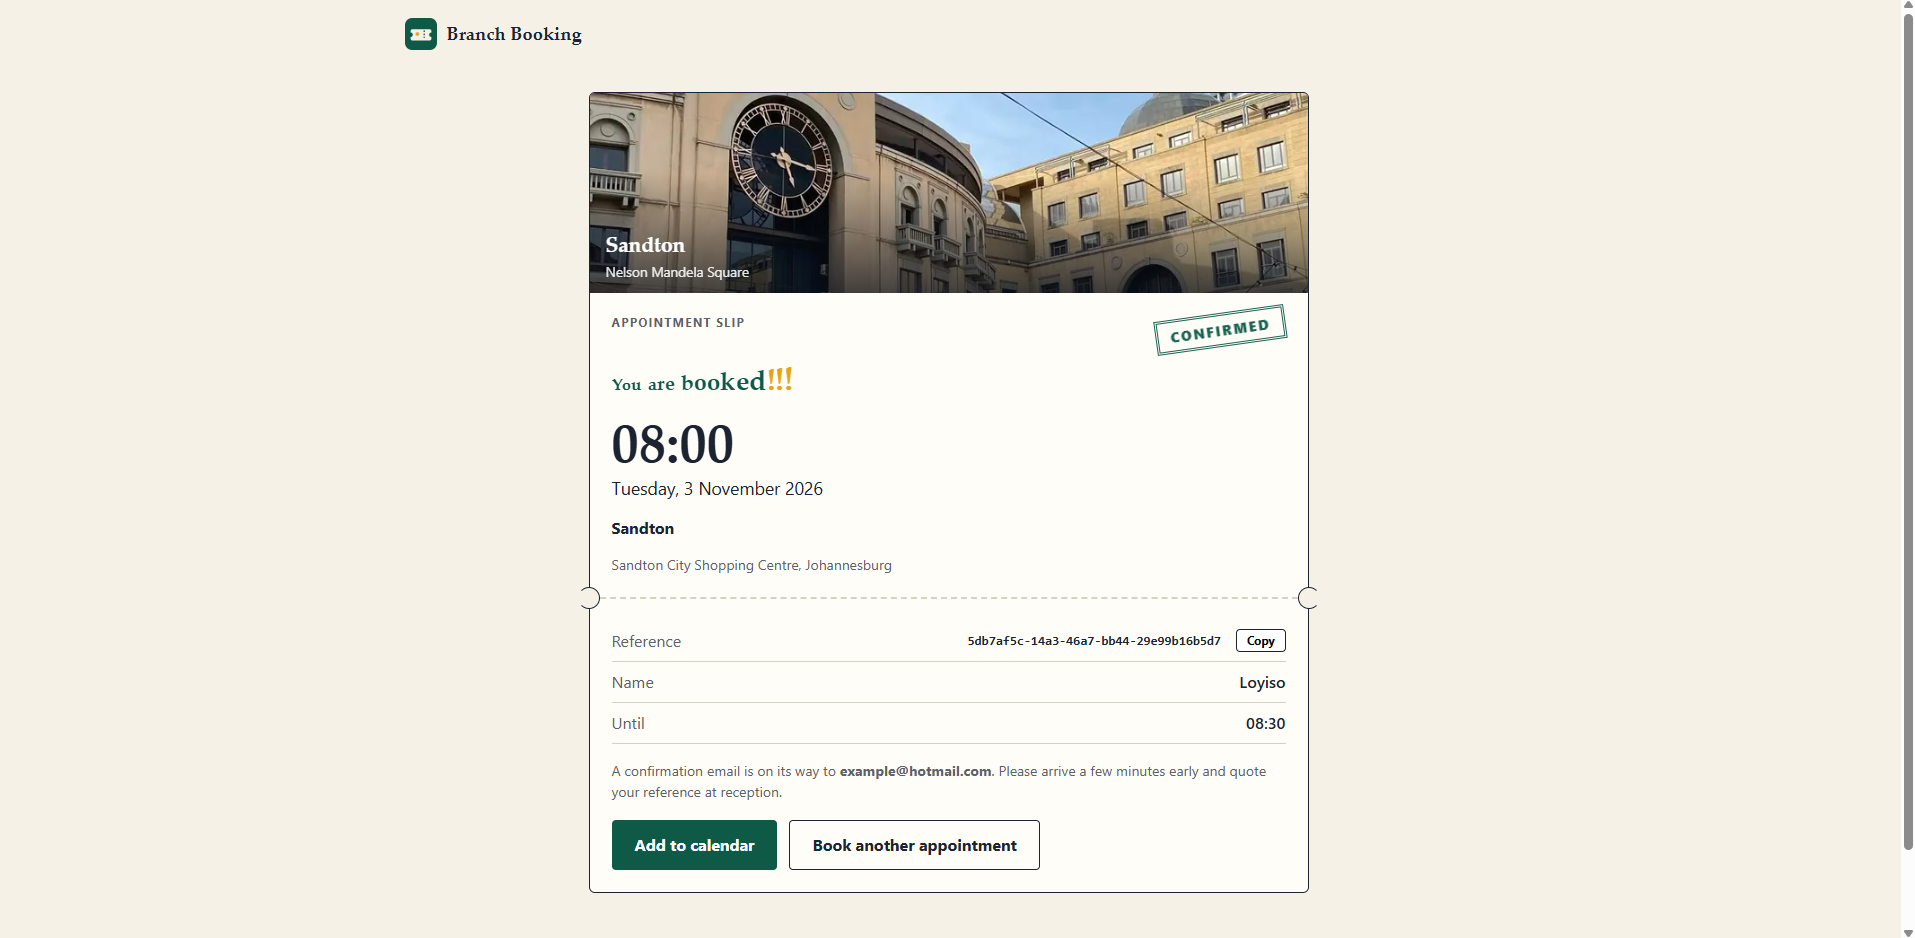
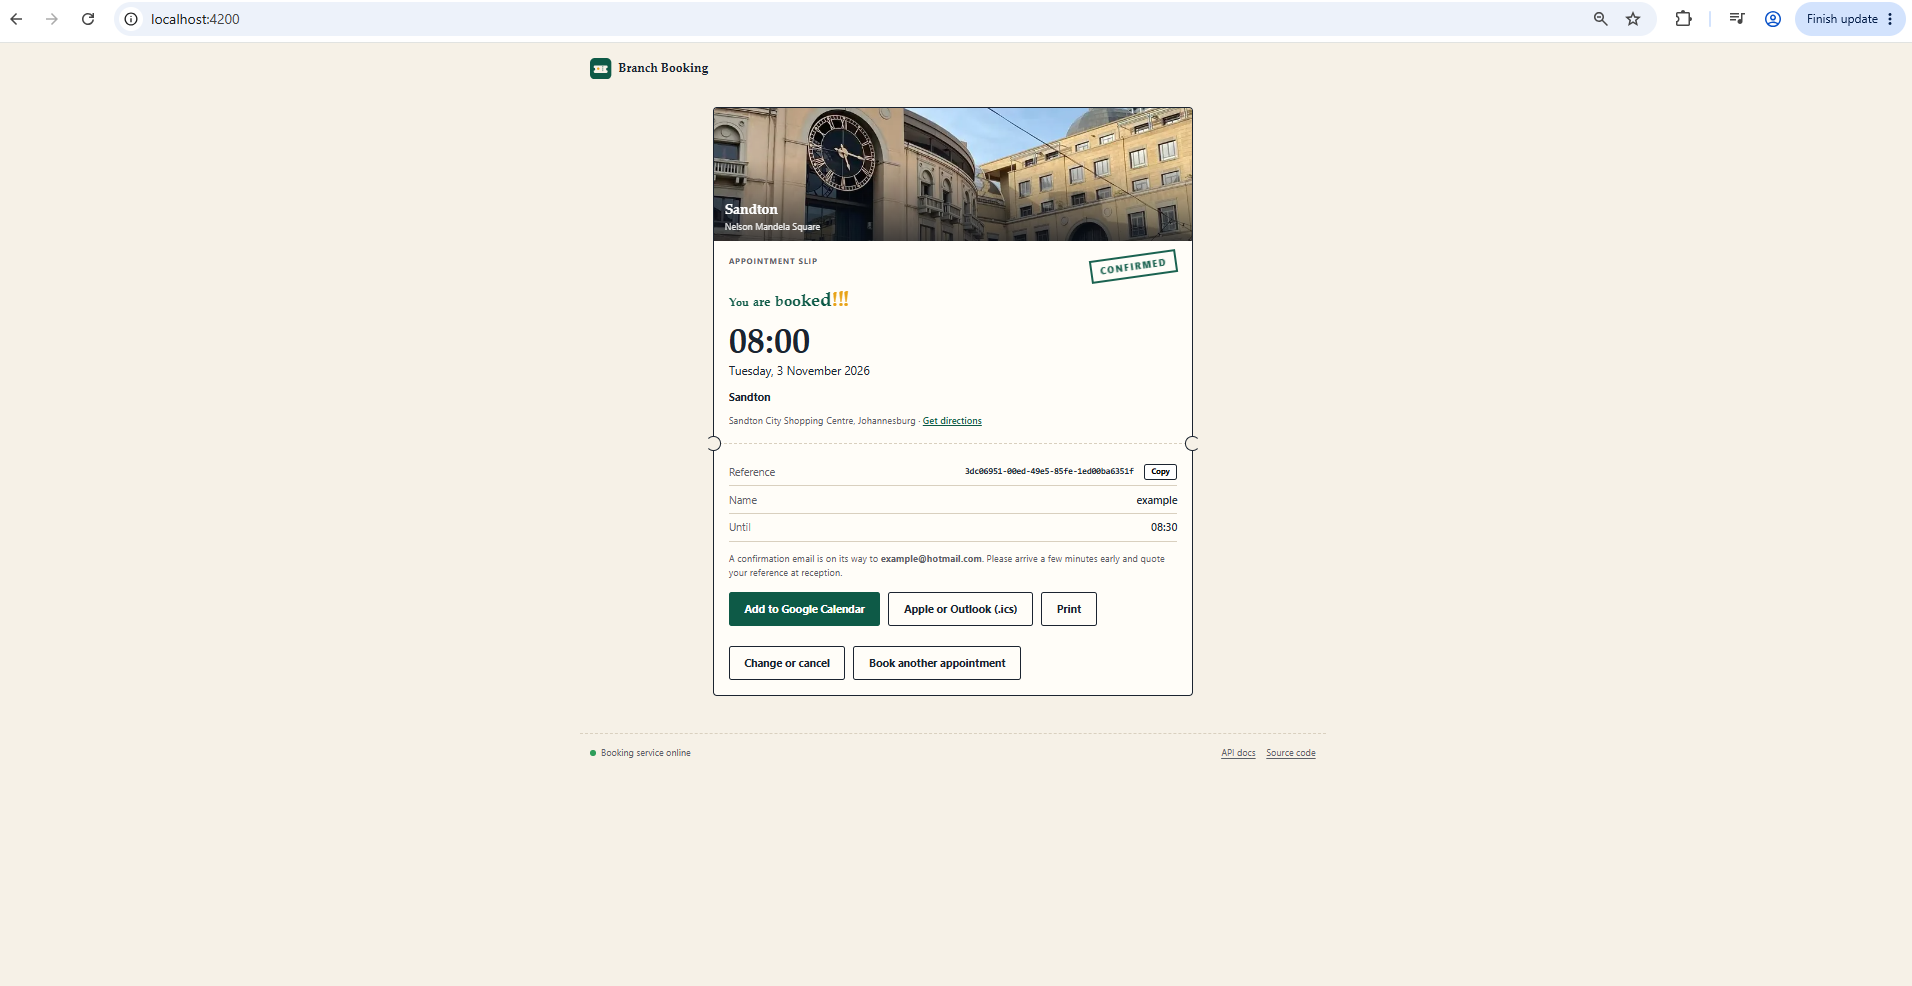
docs: final screenshots including the manage view

diff --git a/README.md b/README.md
@@ -15,6 +15,8 @@ A full-stack application for scheduling branch appointments. Customers choose a 
 
 ![Confirmed booking](docs/confirmation-slip.png)
 
+![Changing or cancelling a booking](docs/manage-booking.png)
+
 ![Confirmation email in MailHog](docs/confirmation-email.png)
 
 ## Architecture
